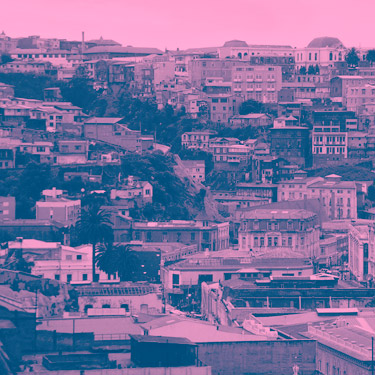
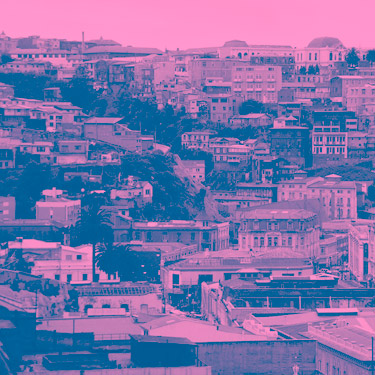
Add files via upload

diff --git a/propuesta-1/style.css b/propuesta-1/style.css
@@ -1,7 +1,12 @@
-@import url('https://fonts.googleapis.com/css?family=Bitter:700');
+@import url('https://fonts.googleapis.com/css?family=Poppins:800');
+@import url('https://fonts.googleapis.com/css?family=IBM+Plex+Sans:300,300i,400');
 
 body {
+    font-family: 'IBM Plex Sans', sans-serif;
+    font-weight: 400;
+    letter-spacing: 0.01rem;
     line-height: 1.5;
+    font-size: 0.9rem;
     background: linear-gradient(135deg,#ccc,#fff);
 }
 
@@ -13,21 +18,20 @@ h4,
 h5,
 h6,
 #year {
-    font-family: 'Bitter', serif;
-    font-weight: 700;
+    font-family: 'Poppins', sans-serif;
+    font-weight: 800;
 }
 
 
 h1 {
     font-size: 1rem;
-    font-weight: 900;
     padding-bottom: 1rem;
+    letter-spacing: 0.1rem;
     color: rgb(255, 62, 181);
 }
 
 h2 {
     font-size: 1.5rem;
-    font-weight: 600;
     color: rgb(0, 127, 246);
     padding: 1rem 0;
     max-width:75%;
@@ -37,16 +41,15 @@ h2 {
  h2{max-width:90%;}   
 }
 
+
 h3 {
     font-size: 1rem;
-    font-weight: 900;
     padding: 2rem 0 1rem 0;
     color: rgb(0, 127, 246);
 }
 
 h4 {
-    font-size: 0.8rem;
-    font-weight: 900;
+    font-size: 0.7rem;
     text-transform: uppercase;
 }
 
@@ -239,32 +242,33 @@ p.lead {
      background-size:cover;
 }
 
+
 #valpo {
-    background: linear-gradient(45deg, rgba(255, 62, 181, 0.8) 0%, rgba(0, 127, 246, 0.8) 100%), url('img/ciudad-valpo.jpg');
+    background: linear-gradient(45deg, rgba(255, 62, 181, 0.7) 0%, rgba(0, 127, 246, 0.7) 100%), url('img/ciudad-valpo.jpg');
     background-size: cover;
 }
 
 #talca {
-    background: linear-gradient(-45deg, rgba(0, 127, 246, 0.8) 0%, rgba(255, 62, 181, 0.8) 100%), url('img/ciudad-talca.jpg');
+    background: linear-gradient(-45deg, rgba(0, 127, 246, 0.7) 0%, rgba(255, 62, 181, 0.7) 100%), url('img/ciudad-talca.jpg');
     background-size: cover;
 }
 
 #stgo {
-    background: linear-gradient(45deg, rgba(255, 62, 181, 0.8) 0%, rgba(0, 127, 246, 0.8) 100%), url('img/ciudad-stgo.jpg');
+    background: linear-gradient(45deg, rgba(255, 62, 181, 0.7) 0%, rgba(0, 127, 246, 0.7) 100%), url('img/ciudad-stgo.jpg');
     background-size: cover;
 }
 
 #concellan {
-    background: linear-gradient(-45deg, rgba(0, 127, 246, 0.8) 0%, rgba(255, 62, 181, 0.8) 100%), url('img/ciudad-concellan.jpg');
+    background: linear-gradient(-45deg, rgba(0, 127, 246, 0.7) 0%, rgba(255, 62, 181, 0.7) 100%), url('img/ciudad-concellan.jpg');
     background-size: cover;
 }
 
 #temuco {
-    background: linear-gradient(45deg, rgba(255, 62, 181, 0.8) 0%, rgba(0, 127, 246, 0.8) 100%), url('img/ciudad-temuco.jpg');
+    background: linear-gradient(45deg, rgba(255, 62, 181, 0.7) 0%, rgba(0, 127, 246, 0.7) 100%), url('img/ciudad-temuco.jpg');
     background-size: cover;
 }
 
 #serena {
-    background: linear-gradient(-45deg, rgba(0, 127, 246, 0.8) 0%, rgba(255, 62, 181, 0.8) 100%), url('img/ciudad-serena.jpg');
+    background: linear-gradient(-45deg, rgba(0, 127, 246, 0.7) 0%, rgba(255, 62, 181, 0.7) 100%), url('img/ciudad-serena.jpg');
     background-size: cover;
 }

diff --git a/propuesta-4/style.css b/propuesta-4/style.css
@@ -1,7 +1,12 @@
-@import url('https://fonts.googleapis.com/css?family=Bitter:700');
+@import url('https://fonts.googleapis.com/css?family=Poppins:800');
+@import url('https://fonts.googleapis.com/css?family=IBM+Plex+Sans:300,300i,400');
 
 body {
+    font-family: 'IBM Plex Sans', sans-serif;
+    font-weight: 400;
+    letter-spacing: 0.01rem;
     line-height: 1.5;
+    font-size: 0.9rem;
     background: linear-gradient(135deg,#ccc,#fff);
 }
 
@@ -13,10 +18,9 @@ h4,
 h5,
 h6,
 #year {
-    font-family: 'Bitter', serif;
-    font-weight: 700;
+    font-family: 'Poppins', sans-serif;
+    font-weight: 800;
 }
-
 
 h1 {
     font-size: 1rem;
@@ -241,31 +245,31 @@ p.lead {
 
 
 #valpo {
-    background: linear-gradient(45deg, rgba(255, 62, 181, 0.8) 0%, rgba(0, 127, 246, 0.8) 100%), url('img/ciudad-valpo.jpg');
+    background: url('img/ciudad-valpo.jpg');
     background-size: cover;
 }
 
 #talca {
-    background: linear-gradient(-45deg, rgba(0, 127, 246, 0.8) 0%, rgba(255, 62, 181, 0.8) 100%), url('img/ciudad-talca.jpg');
+    background: url('img/ciudad-talca.jpg');
     background-size: cover;
 }
 
 #stgo {
-    background: linear-gradient(45deg, rgba(255, 62, 181, 0.8) 0%, rgba(0, 127, 246, 0.8) 100%), url('img/ciudad-stgo.jpg');
+    background: url('img/ciudad-stgo.jpg');
     background-size: cover;
 }
 
 #concellan {
-    background: linear-gradient(-45deg, rgba(0, 127, 246, 0.8) 0%, rgba(255, 62, 181, 0.8) 100%), url('img/ciudad-concellan.jpg');
+    background: url('img/ciudad-concellan.jpg');
     background-size: cover;
 }
 
 #temuco {
-    background: linear-gradient(45deg, rgba(255, 62, 181, 0.8) 0%, rgba(0, 127, 246, 0.8) 100%), url('img/ciudad-temuco.jpg');
+    background: url('img/ciudad-temuco.jpg');
     background-size: cover;
 }
 
 #serena {
-    background: linear-gradient(-45deg, rgba(0, 127, 246, 0.8) 0%, rgba(255, 62, 181, 0.8) 100%), url('img/ciudad-serena.jpg');
+    background: url('img/ciudad-serena.jpg');
     background-size: cover;
 }

diff --git a/propuesta-2/style.css b/propuesta-2/style.css
@@ -1,12 +1,7 @@
-@import url('https://fonts.googleapis.com/css?family=Poppins:800');
-@import url('https://fonts.googleapis.com/css?family=IBM+Plex+Sans:300,300i,400');
+@import url('https://fonts.googleapis.com/css?family=Bitter:700');
 
 body {
-    font-family: 'IBM Plex Sans', sans-serif;
-    font-weight: 400;
-    letter-spacing: 0.01rem;
     line-height: 1.5;
-    font-size: 0.9rem;
     background: linear-gradient(135deg,#ccc,#fff);
 }
 
@@ -18,20 +13,21 @@ h4,
 h5,
 h6,
 #year {
-    font-family: 'Poppins', sans-serif;
-    font-weight: 800;
+    font-family: 'Bitter', serif;
+    font-weight: 700;
 }
 
 
 h1 {
     font-size: 1rem;
+    font-weight: 900;
     padding-bottom: 1rem;
-    letter-spacing: 0.1rem;
     color: rgb(255, 62, 181);
 }
 
 h2 {
     font-size: 1.5rem;
+    font-weight: 600;
     color: rgb(0, 127, 246);
     padding: 1rem 0;
     max-width:75%;
@@ -41,15 +37,16 @@ h2 {
  h2{max-width:90%;}   
 }
 
-
 h3 {
     font-size: 1rem;
+    font-weight: 900;
     padding: 2rem 0 1rem 0;
     color: rgb(0, 127, 246);
 }
 
 h4 {
     font-size: 0.8rem;
+    font-weight: 900;
     text-transform: uppercase;
 }
 
@@ -241,7 +238,6 @@ p.lead {
      background:url(img/libro.jpg); 
      background-size:cover;
 }
-
 
 #valpo {
     background: linear-gradient(45deg, rgba(255, 62, 181, 0.8) 0%, rgba(0, 127, 246, 0.8) 100%), url('img/ciudad-valpo.jpg');

diff --git a/propuesta-2/index.html b/propuesta-2/index.html
@@ -10,7 +10,7 @@
     <link rel="stylesheet" href="https://stackpath.bootstrapcdn.com/bootstrap/4.3.1/css/bootstrap.min.css" integrity="sha384-ggOyR0iXCbMQv3Xipma34MD+dH/1fQ784/j6cY/iJTQUOhcWr7x9JvoRxT2MZw1T" crossorigin="anonymous">
     <link rel="stylesheet" href="https://use.fontawesome.com/releases/v5.8.2/css/all.css" integrity="sha384-oS3vJWv+0UjzBfQzYUhtDYW+Pj2yciDJxpsK1OYPAYjqT085Qq/1cq5FLXAZQ7Ay" crossorigin="anonymous">
     <link rel="stylesheet" href="style.css">
-    <title>Propuesta Nº3</title>
+    <title>Propuesta Nº2</title>
 </head>
 
 <body>

diff --git a/propuesta-3/index.html b/propuesta-3/index.html
@@ -10,7 +10,7 @@
     <link rel="stylesheet" href="https://stackpath.bootstrapcdn.com/bootstrap/4.3.1/css/bootstrap.min.css" integrity="sha384-ggOyR0iXCbMQv3Xipma34MD+dH/1fQ784/j6cY/iJTQUOhcWr7x9JvoRxT2MZw1T" crossorigin="anonymous">
     <link rel="stylesheet" href="https://use.fontawesome.com/releases/v5.8.2/css/all.css" integrity="sha384-oS3vJWv+0UjzBfQzYUhtDYW+Pj2yciDJxpsK1OYPAYjqT085Qq/1cq5FLXAZQ7Ay" crossorigin="anonymous">
     <link rel="stylesheet" href="style.css">
-    <title>Propuesta Nº2</title>
+    <title>Propuesta Nº3</title>
 </head>
 
 <body>
